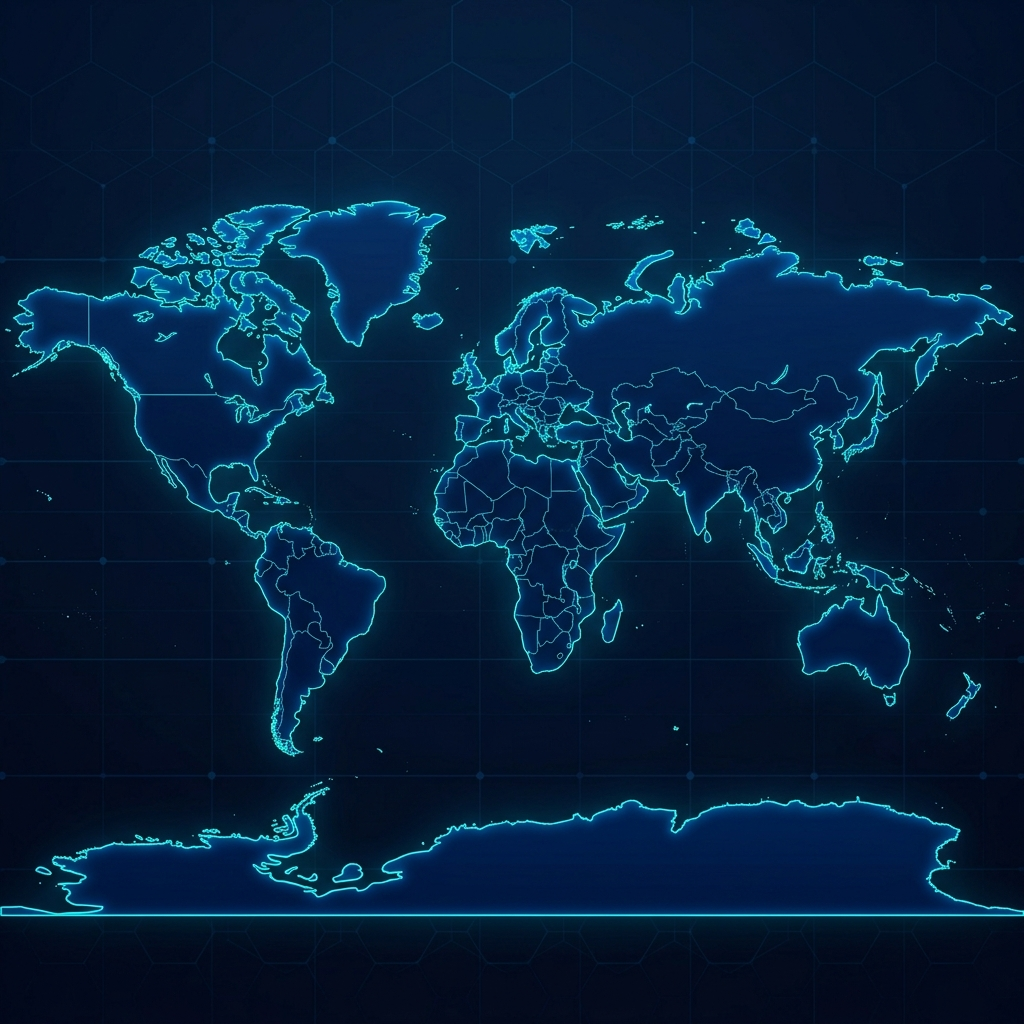
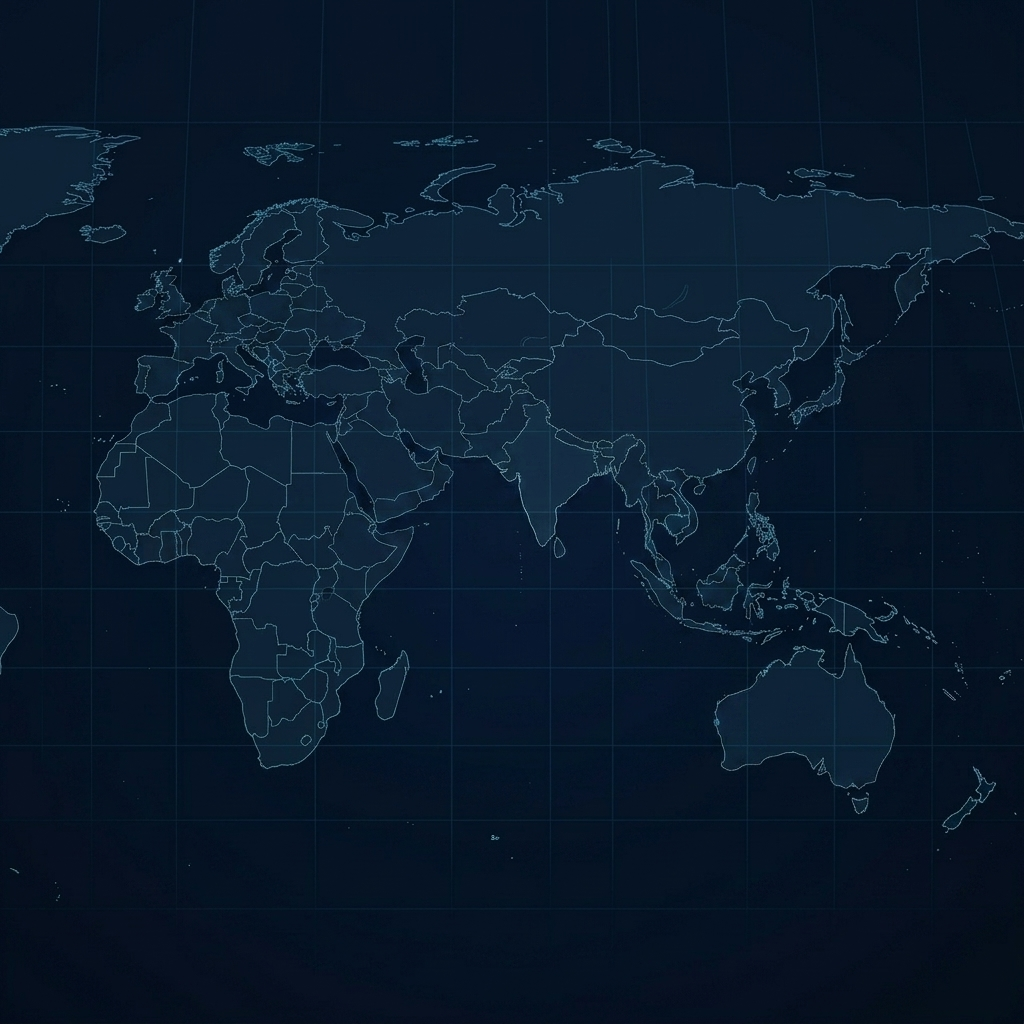
fix: align global presence interactive map coordinates and routes with correct India-centered projection

diff --git a/index.html b/index.html
@@ -600,160 +600,160 @@
 
           <!-- Trade Hub Origin (India) -->
           <g class="map-origin-group">
-            <circle class="origin-pulse" cx="685" cy="475" r="12" />
-            <circle class="origin-dot" cx="685" cy="475" r="6" />
-            <text class="origin-label" x="685" y="455" text-anchor="middle">India (HQ)</text>
+            <circle class="origin-pulse" cx="530" cy="460" r="12" />
+            <circle class="origin-dot" cx="530" cy="460" r="6" />
+            <text class="origin-label" x="530" y="440" text-anchor="middle">India (HQ)</text>
           </g>
 
-          <!-- Middle East GCC -->
+          <!-- middleEast -->
           <g class="map-route-group active" data-region="middleEast">
             <!-- Dubai -->
-            <path class="trade-route" d="M 685 475 Q 650 420 615 452" />
-            <circle class="dest-dot" cx="615" cy="452" r="4.5" />
-            <text class="dest-label" x="615" y="442" text-anchor="middle">Dubai</text>
+            <path class="trade-route" d="M 530 460 Q 465 422.9 400 445" />
+            <circle class="dest-dot" cx="400" cy="445" r="4.5" />
+            <text class="dest-label" x="400" y="435" text-anchor="middle">Dubai</text>
 
             <!-- Riyadh -->
-            <path class="trade-route" d="M 685 475 Q 640 425 595 468" />
-            <circle class="dest-dot" cx="595" cy="468" r="4.5" />
-            <text class="dest-label" x="595" y="488" text-anchor="middle">Riyadh</text>
+            <path class="trade-route" d="M 530 460 Q 452.5 426.8 375 460" />
+            <circle class="dest-dot" cx="375" cy="460" r="4.5" />
+            <text class="dest-label" x="375" y="480" text-anchor="middle">Riyadh</text>
 
             <!-- Jeddah -->
-            <path class="trade-route" d="M 685 475 Q 628 430 572 480" />
-            <circle class="dest-dot" cx="572" cy="480" r="4" />
-            <text class="dest-label" x="559" y="485" text-anchor="end">Jeddah</text>
+            <path class="trade-route" d="M 530 460 Q 437.5 429.7 345 475" />
+            <circle class="dest-dot" cx="345" cy="475" r="4.5" />
+            <text class="dest-label" x="335" y="480" text-anchor="end">Jeddah</text>
           </g>
 
-          <!-- Europe & Russia -->
+          <!-- europe -->
           <g class="map-route-group active" data-region="europe">
             <!-- Rotterdam -->
-            <path class="trade-route" d="M 685 475 Q 587 310 490 310" />
-            <circle class="dest-dot" cx="490" cy="310" r="4.5" />
-            <text class="dest-label" x="490" y="300" text-anchor="middle">Rotterdam</text>
+            <path class="trade-route" d="M 530 460 Q 357.5 311.8 185 298" />
+            <circle class="dest-dot" cx="185" cy="298" r="4.5" />
+            <text class="dest-label" x="185" y="288" text-anchor="middle">Rotterdam</text>
 
             <!-- Hamburg -->
-            <path class="trade-route" d="M 685 475 Q 595 310 506 298" />
-            <circle class="dest-dot" cx="506" cy="298" r="4" />
-            <text class="dest-label" x="519" y="288" text-anchor="start">Hamburg</text>
+            <path class="trade-route" d="M 530 460 Q 367.5 310 205 290" />
+            <circle class="dest-dot" cx="205" cy="290" r="4.5" />
+            <text class="dest-label" x="215" y="285" text-anchor="start">Hamburg</text>
 
             <!-- London -->
-            <path class="trade-route" d="M 685 475 Q 580 300 475 312" />
-            <circle class="dest-dot" cx="475" cy="312" r="4" />
-            <text class="dest-label" x="463" y="307" text-anchor="end">London</text>
+            <path class="trade-route" d="M 530 460 Q 347.5 313 165 305" />
+            <circle class="dest-dot" cx="165" cy="305" r="4.5" />
+            <text class="dest-label" x="155" y="310" text-anchor="end">London</text>
 
             <!-- St. Petersburg -->
-            <path class="trade-route" d="M 685 475 Q 610 280 535 252" />
-            <circle class="dest-dot" cx="535" cy="252" r="4.5" />
-            <text class="dest-label" x="535" y="242" text-anchor="middle">St. Petersburg</text>
+            <path class="trade-route" d="M 530 460 Q 402.5 280.5 275 225" />
+            <circle class="dest-dot" cx="275" cy="225" r="4.5" />
+            <text class="dest-label" x="275" y="215" text-anchor="middle">St. Petersburg</text>
 
             <!-- Vladivostok -->
-            <path class="trade-route" d="M 685 475 Q 755 340 826 325" />
-            <circle class="dest-dot" cx="826" cy="325" r="4.5" />
-            <text class="dest-label" x="826" y="315" text-anchor="middle">Vladivostok</text>
+            <path class="trade-route" d="M 530 460 Q 655 342.7 780 330" />
+            <circle class="dest-dot" cx="780" cy="330" r="4.5" />
+            <text class="dest-label" x="780" y="320" text-anchor="middle">Vladivostok</text>
           </g>
 
-          <!-- USA -->
+          <!-- usa -->
           <g class="map-route-group active" data-region="usa">
             <!-- New York -->
-            <path class="trade-route" d="M 685 475 Q 486 280 288 362" />
-            <circle class="dest-dot" cx="288" cy="362" r="4.5" />
-            <text class="dest-label" x="288" y="352" text-anchor="middle">New York</text>
+            <path class="trade-route" d="M 530 460 Q 286 325.3 42 360" />
+            <circle class="dest-dot" cx="42" cy="360" r="4.5" />
+            <text class="dest-label" x="42" y="350" text-anchor="middle">New York</text>
 
             <!-- Los Angeles -->
-            <path class="trade-route" d="M 685 475 Q 410 220 135 405" />
-            <circle class="dest-dot" cx="135" cy="405" r="4.5" />
-            <text class="dest-label" x="125" y="420" text-anchor="end">Los Angeles</text>
+            <path class="trade-route" d="M 530 460 Q 770.5 344.7 1011 395" />
+            <circle class="dest-dot" cx="1011" cy="395" r="4.5" />
+            <text class="dest-label" x="1001" y="410" text-anchor="end">Los Angeles</text>
 
             <!-- Seattle -->
-            <path class="trade-route" d="M 685 475 Q 410 180 135 322" />
-            <circle class="dest-dot" cx="135" cy="322" r="4" />
-            <text class="dest-label" x="125" y="317" text-anchor="end">Seattle</text>
+            <path class="trade-route" d="M 530 460 Q 767.5 311.1 1005 330" />
+            <circle class="dest-dot" cx="1005" cy="330" r="4.5" />
+            <text class="dest-label" x="995" y="325" text-anchor="end">Seattle</text>
 
             <!-- Houston -->
-            <path class="trade-route" d="M 685 475 Q 452 280 220 442" />
-            <circle class="dest-dot" cx="220" cy="442" r="4" />
-            <text class="dest-label" x="220" y="457" text-anchor="middle">Houston</text>
+            <path class="trade-route" d="M 530 460 Q 273 359.8 16 434" />
+            <circle class="dest-dot" cx="16" cy="434" r="4.5" />
+            <text class="dest-label" x="16" y="449" text-anchor="middle">Houston</text>
           </g>
 
-          <!-- Canada -->
+          <!-- canada -->
           <g class="map-route-group active" data-region="canada">
             <!-- Vancouver -->
-            <path class="trade-route" d="M 685 475 Q 410 160 135 310" />
-            <circle class="dest-dot" cx="135" cy="310" r="4.5" />
-            <text class="dest-label" x="125" y="300" text-anchor="end">Vancouver</text>
+            <path class="trade-route" d="M 530 460 Q 767 303.7 1004 316" />
+            <circle class="dest-dot" cx="1004" cy="316" r="4.5" />
+            <text class="dest-label" x="994" y="306" text-anchor="end">Vancouver</text>
 
             <!-- Montreal -->
-            <path class="trade-route" d="M 685 475 Q 486 240 288 335" />
-            <circle class="dest-dot" cx="288" cy="335" r="4.5" />
-            <text class="dest-label" x="288" y="325" text-anchor="middle">Montreal</text>
+            <path class="trade-route" d="M 530 460 Q 286 309.2 42 330" />
+            <circle class="dest-dot" cx="42" cy="330" r="4.5" />
+            <text class="dest-label" x="42" y="320" text-anchor="middle">Montreal</text>
 
             <!-- Halifax -->
-            <path class="trade-route" d="M 685 475 Q 498 250 312 335" />
-            <circle class="dest-dot" cx="312" cy="335" r="4" />
-            <text class="dest-label" x="327" y="340" text-anchor="start">Halifax</text>
+            <path class="trade-route" d="M 530 460 Q 286 303.8 42 320" />
+            <circle class="dest-dot" cx="42" cy="320" r="4.5" />
+            <text class="dest-label" x="52" y="325" text-anchor="start">Halifax</text>
           </g>
 
-          <!-- Australia -->
+          <!-- australia -->
           <g class="map-route-group active" data-region="australia">
             <!-- Sydney -->
-            <path class="trade-route" d="M 685 475 Q 790 560 850 680" />
-            <circle class="dest-dot" cx="850" cy="680" r="4.5" />
-            <text class="dest-label" x="865" y="685" text-anchor="start">Sydney</text>
+            <path class="trade-route" d="M 530 460 Q 686 517.1 842 715" />
+            <circle class="dest-dot" cx="842" cy="715" r="4.5" />
+            <text class="dest-label" x="857" y="720" text-anchor="start">Sydney</text>
 
             <!-- Melbourne -->
-            <path class="trade-route" d="M 685 475 Q 780 570 835 685" />
-            <circle class="dest-dot" cx="835" cy="685" r="4" />
-            <text class="dest-label" x="835" y="700" text-anchor="middle">Melbourne</text>
+            <path class="trade-route" d="M 530 460 Q 670 532.6 810 745" />
+            <circle class="dest-dot" cx="810" cy="745" r="4.5" />
+            <text class="dest-label" x="810" y="760" text-anchor="middle">Melbourne</text>
 
             <!-- Perth -->
-            <path class="trade-route" d="M 685 475 Q 760 570 800 670" />
-            <circle class="dest-dot" cx="800" cy="670" r="4" />
-            <text class="dest-label" x="785" y="675" text-anchor="end">Perth</text>
+            <path class="trade-route" d="M 530 460 Q 634 519.3 738 692" />
+            <circle class="dest-dot" cx="738" cy="692" r="4.5" />
+            <text class="dest-label" x="723" y="697" text-anchor="end">Perth</text>
           </g>
 
-          <!-- Africa -->
+          <!-- africa -->
           <g class="map-route-group active" data-region="africa">
             <!-- Mombasa -->
-            <path class="trade-route" d="M 685 475 Q 628 520 572 570" />
-            <circle class="dest-dot" cx="572" cy="570" r="4.5" />
-            <text class="dest-label" x="557" y="570" text-anchor="end">Mombasa</text>
+            <path class="trade-route" d="M 530 460 Q 437.5 476.9 345 580" />
+            <circle class="dest-dot" cx="345" cy="580" r="4.5" />
+            <text class="dest-label" x="335" y="580" text-anchor="end">Mombasa</text>
 
             <!-- Durban -->
-            <path class="trade-route" d="M 685 475 Q 610 580 555 690" />
-            <circle class="dest-dot" cx="555" cy="690" r="4.5" />
-            <text class="dest-label" x="540" y="695" text-anchor="end">Durban</text>
+            <path class="trade-route" d="M 530 460 Q 427.5 526.5 325 710" />
+            <circle class="dest-dot" cx="325" cy="710" r="4.5" />
+            <text class="dest-label" x="310" y="715" text-anchor="end">Durban</text>
 
             <!-- Lagos -->
-            <path class="trade-route" d="M 685 475 Q 565 495 478 542" />
-            <circle class="dest-dot" cx="478" cy="542" r="4" />
-            <text class="dest-label" x="463" y="542" text-anchor="end">Lagos</text>
+            <path class="trade-route" d="M 530 460 Q 372.5 443.6 215 545" />
+            <circle class="dest-dot" cx="215" cy="545" r="4.5" />
+            <text class="dest-label" x="200" y="545" text-anchor="end">Lagos</text>
           </g>
 
-          <!-- Southeast Asia -->
+          <!-- southeastAsia -->
           <g class="map-route-group active" data-region="southeastAsia">
             <!-- Singapore -->
-            <path class="trade-route" d="M 685 475 Q 725 510 755 554" />
-            <circle class="dest-dot" cx="755" cy="554" r="4.5" />
-            <text class="dest-label" x="770" y="564" text-anchor="start">Singapore</text>
+            <path class="trade-route" d="M 530 460 Q 592.5 476 655 560" />
+            <circle class="dest-dot" cx="655" cy="560" r="4.5" />
+            <text class="dest-label" x="670" y="570" text-anchor="start">Singapore</text>
 
             <!-- Bangkok -->
-            <path class="trade-route" d="M 685 475 Q 718 480 750 505" />
-            <circle class="dest-dot" cx="750" cy="505" r="4" />
-            <text class="dest-label" x="762" y="500" text-anchor="start">Bangkok</text>
+            <path class="trade-route" d="M 530 460 Q 590 457.7 650 515" />
+            <circle class="dest-dot" cx="650" cy="515" r="4.5" />
+            <text class="dest-label" x="662" y="510" text-anchor="start">Bangkok</text>
 
             <!-- Ho Chi Minh -->
-            <path class="trade-route" d="M 685 475 Q 730 490 765 522" />
-            <circle class="dest-dot" cx="765" cy="522" r="4" />
-            <text class="dest-label" x="780" y="527" text-anchor="start">Ho Chi Minh</text>
+            <path class="trade-route" d="M 530 460 Q 597.5 463 665 532" />
+            <circle class="dest-dot" cx="665" cy="532" r="4.5" />
+            <text class="dest-label" x="680" y="537" text-anchor="start">Ho Chi Minh</text>
 
             <!-- Manila -->
-            <path class="trade-route" d="M 685 475 Q 745 480 805 505" />
-            <circle class="dest-dot" cx="805" cy="505" r="4" />
-            <text class="dest-label" x="820" y="505" text-anchor="start">Manila</text>
+            <path class="trade-route" d="M 530 460 Q 619 450.9 708 518" />
+            <circle class="dest-dot" cx="708" cy="518" r="4.5" />
+            <text class="dest-label" x="723" y="523" text-anchor="start">Manila</text>
 
             <!-- Tokyo -->
-            <path class="trade-route" d="M 685 475 Q 768 380 852 362" />
-            <circle class="dest-dot" cx="852" cy="362" r="4.5" />
-            <text class="dest-label" x="852" y="352" text-anchor="middle">Tokyo</text>
+            <path class="trade-route" d="M 530 460 Q 662.5 387.2 795 415" />
+            <circle class="dest-dot" cx="795" cy="415" r="4.5" />
+            <text class="dest-label" x="795" y="405" text-anchor="middle">Tokyo</text>
           </g>
         </svg>
       </div>

diff --git a/style.css b/style.css
@@ -1347,7 +1347,7 @@ header.sticky .logo-subtitle {
 
 .origin-pulse {
   fill: rgba(212, 175, 55, 0.4);
-  transform-origin: 685px 475px;
+  transform-origin: 530px 460px;
   animation: map-pulse 2s infinite ease-out;
 }
 